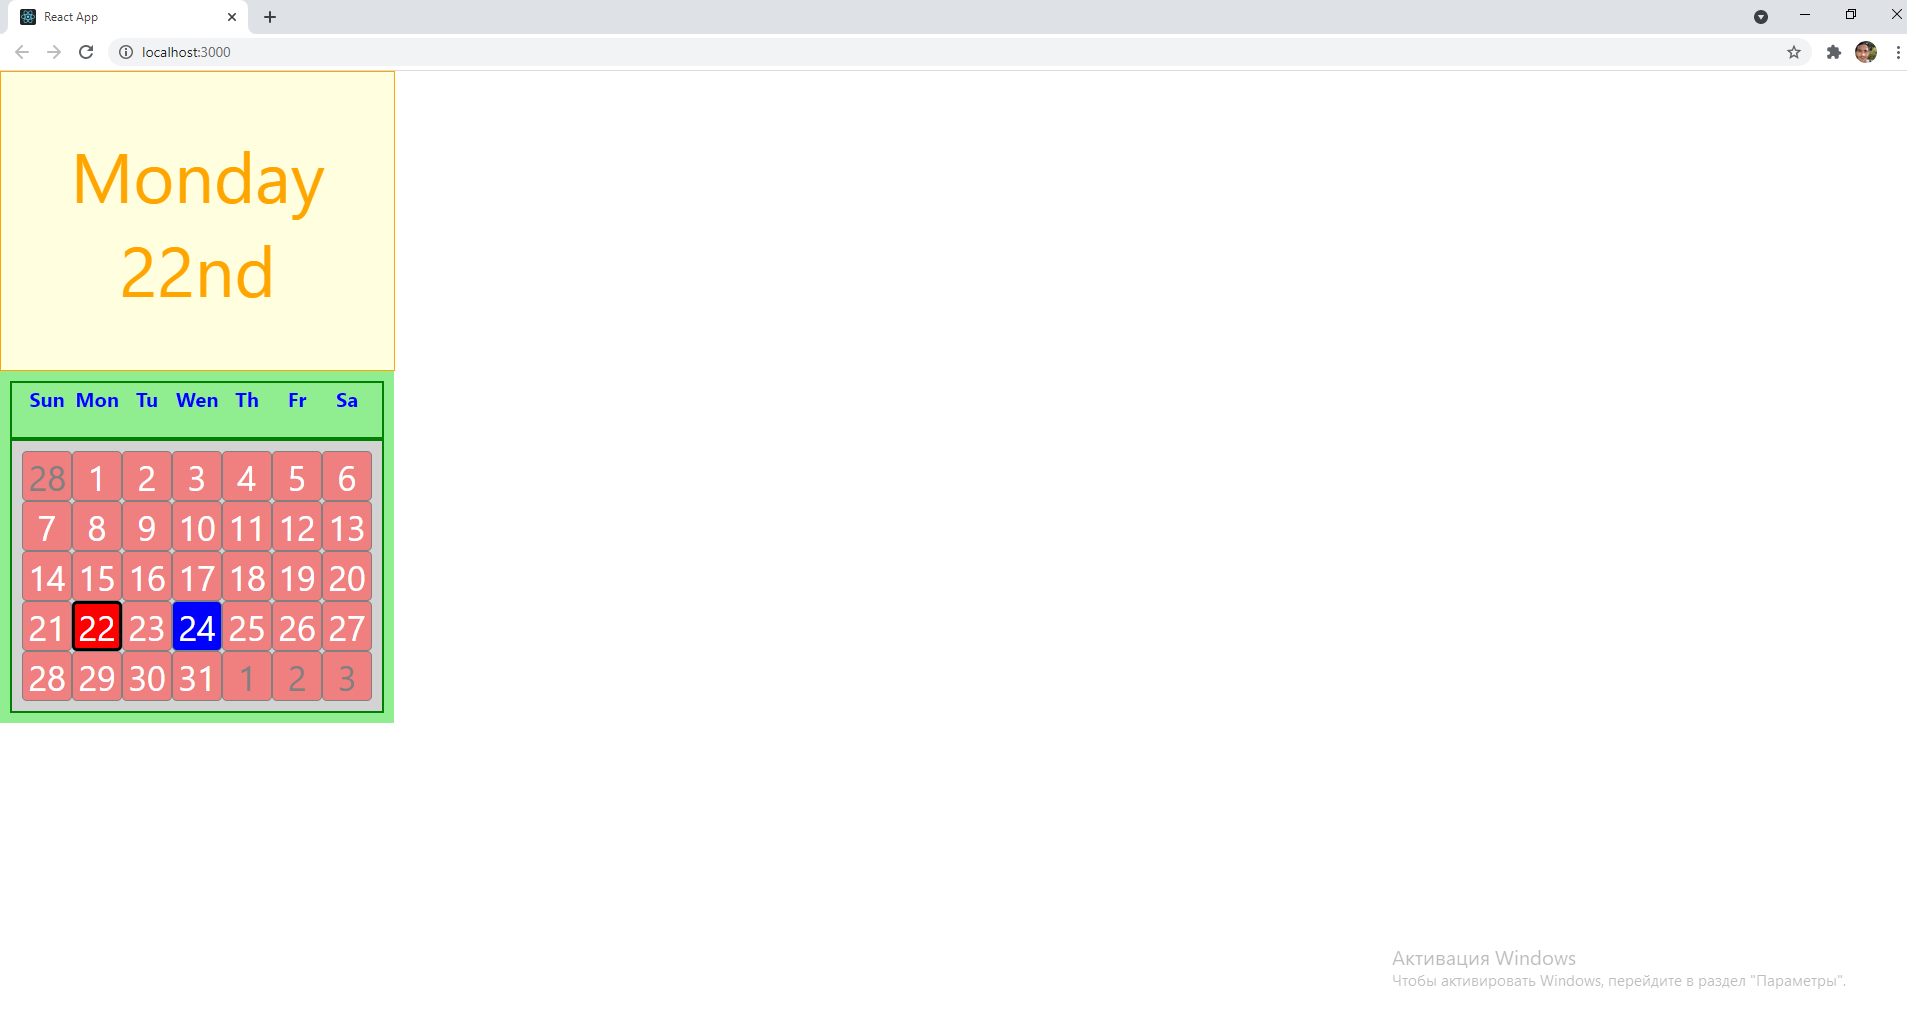
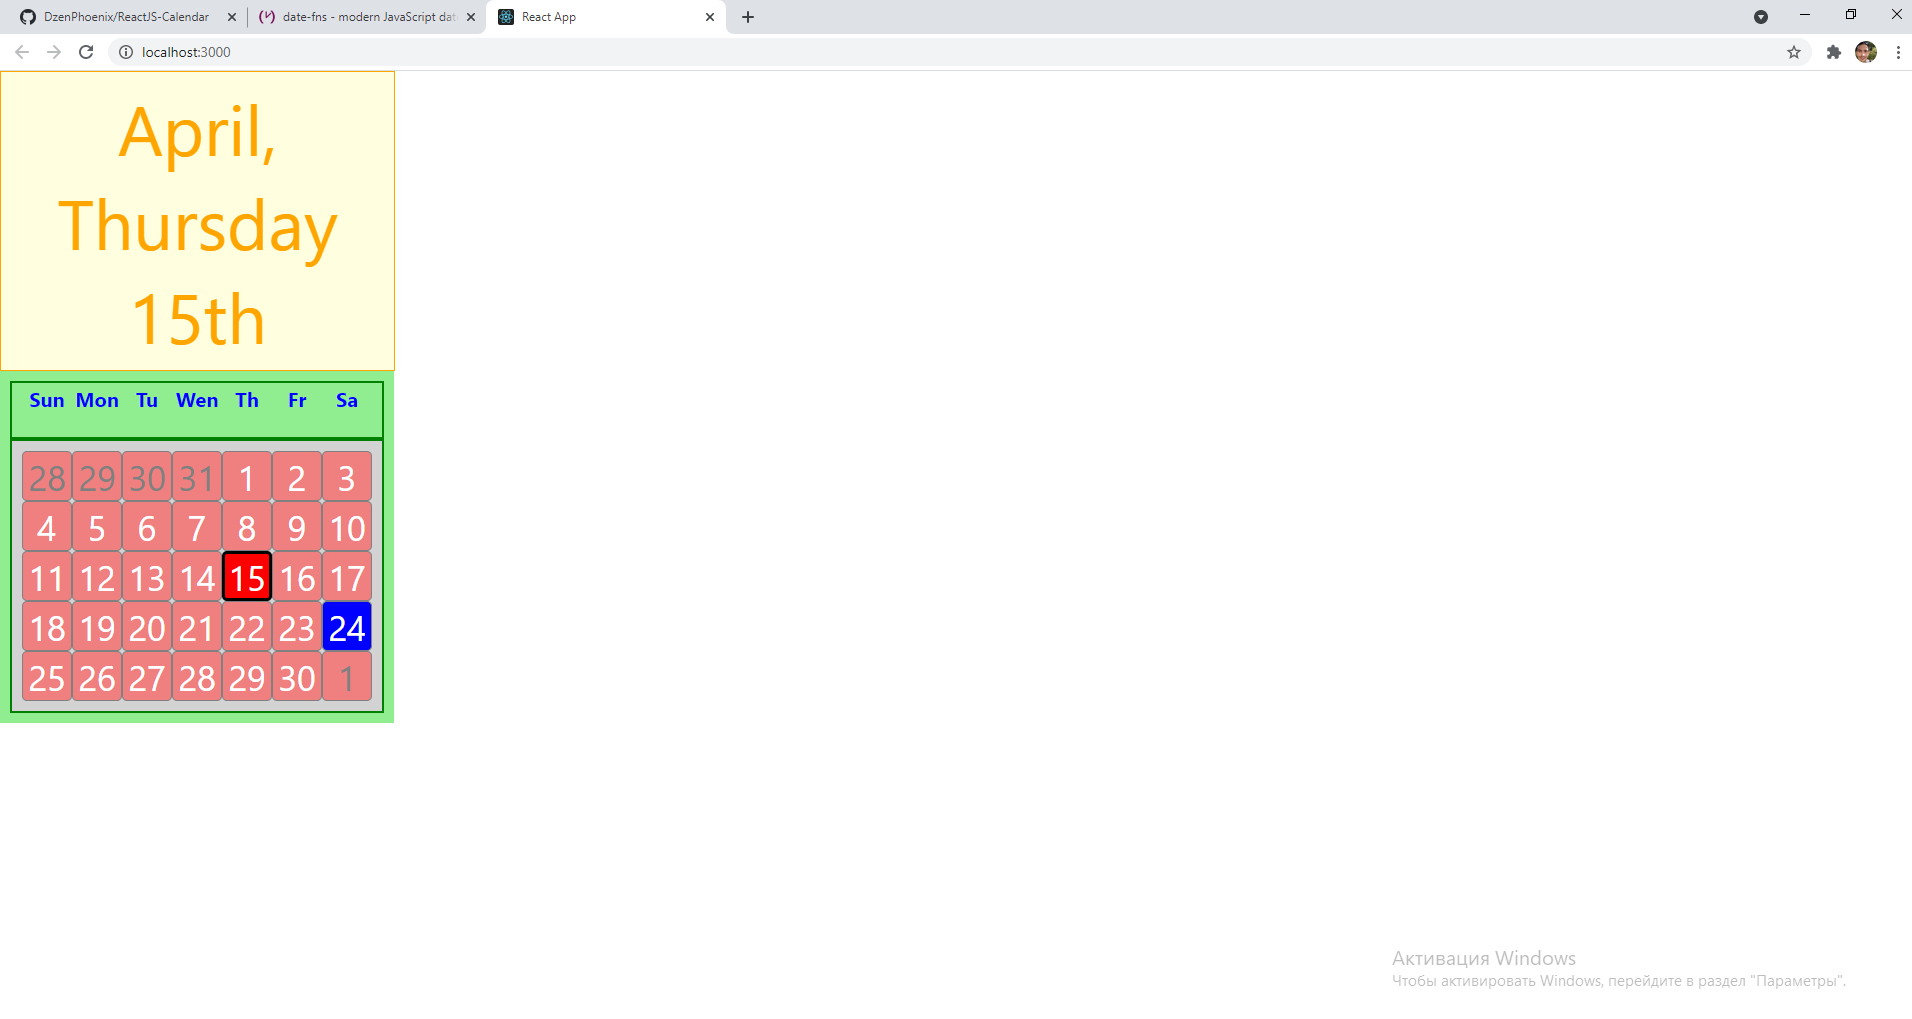
Add month name in CalendarTitle

diff --git a/src/components/Calendar/CalendarTitle/CalendarTitle.jsx b/src/components/Calendar/CalendarTitle/CalendarTitle.jsx
@@ -10,7 +10,7 @@ export default class CalendarTitle extends React.Component{
         return(
             <div className={Style.wrapper}>
                 <div className={Style.title}>
-                    {format(selectedDate,'eeee do')}
+                    {format(selectedDate,'MMMM, eeee do')}
                 </div>
             </div>
         )

diff --git a/src/App.js b/src/App.js
@@ -7,7 +7,7 @@ import {} from 'date-fns';
 function App() {
   return (
     <div className="App">
-      <Calendar  currentDate={new Date(2021, 2, 24)} selectedDate = {new Date(2021, 2, 25)}></Calendar>
+      <Calendar  currentDate={new Date(2021, 3, 24)} selectedDate = {new Date(2021, 3, 25)}></Calendar>
     </div>
   );
 }
